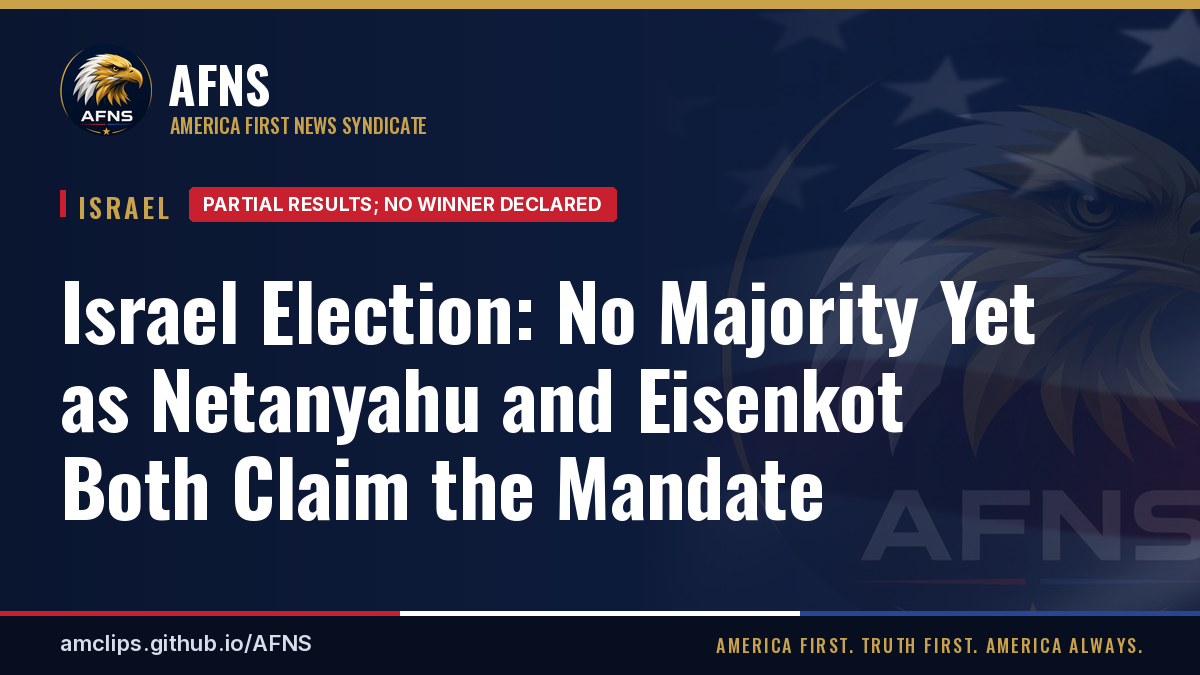
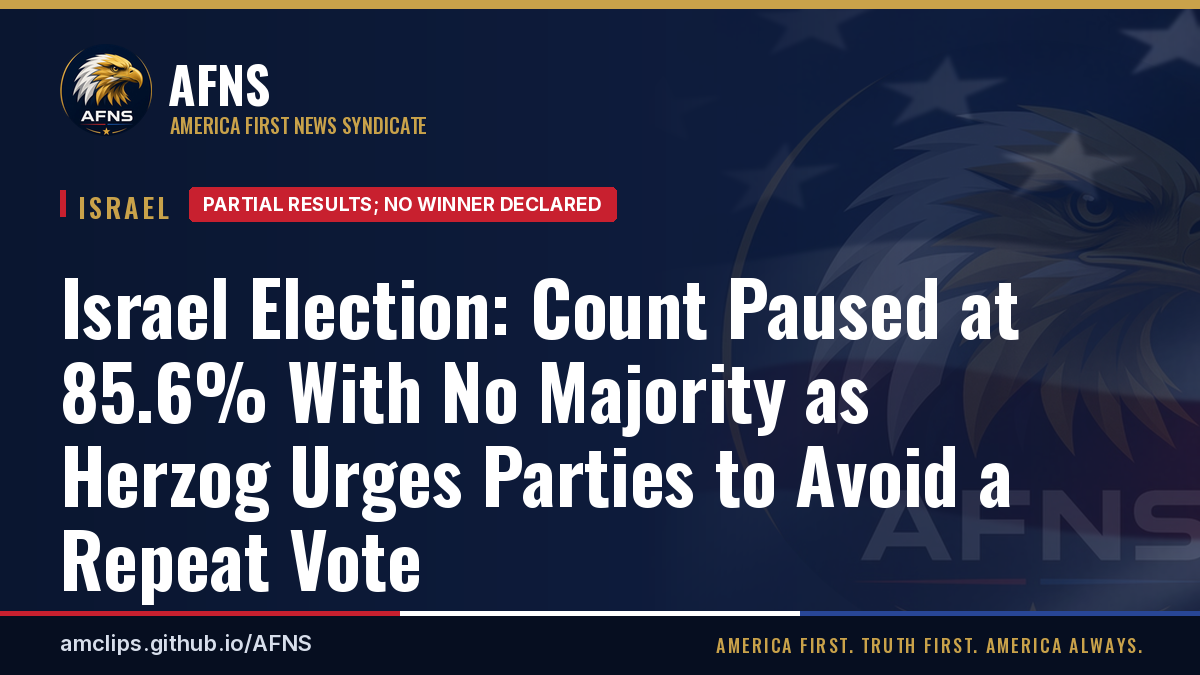
Update the Israel election story for the 9 AM count. (#8)
The count is paused at 85.6% with no majority, and the morning briefing matches that. The share card uses the new headline.

Changed region(s): [[0.0308, 0.4044, 0.8633, 0.9022]]

diff --git a/content/israel/israel-election-no-clear-winner-netanyahu-eisenkot-claim-victory.md b/content/israel/israel-election-no-clear-winner-netanyahu-eisenkot-claim-victory.md
@@ -1,8 +1,8 @@
 ---
-title: "Israel Election: No Majority Yet as Netanyahu and Eisenkot Both Claim the Mandate"
+title: "Israel Election: Count Paused at 85.6% With No Majority as Herzog Urges Parties to Avoid a Repeat Vote"
 desk: israel
 date: 2026-10-28
-summary: "With about 84% of ballot boxes counted, the Central Elections Committee's partial results give Netanyahu's bloc 54 seats, seven short of the 61 needed. Eisenkot's bloc has 49 and the Arab-led parties have 17. Soldiers' and double-envelope ballots are still to be counted, both leaders claim the mandate, and final results are expected around Nov. 4."
+summary: "With 85.6% counted, the Central Elections Committee gives Netanyahu's bloc 53 seats, eight short of the 61 needed. Eisenkot's bloc has 48, and the Arab parties have a record 19. Counting is paused for the day, with about 600,000 double-envelope ballots still to be added. President Herzog urged parties to avoid a repeat election."
 image: "img/stories/israel-election-no-clear-winner-netanyahu-eisenkot-claim-victory.jpg"
 image_alt: "Ballot slips for each party list laid out in a voting booth at an Israeli polling station, Oct. 27, 2026"
 image_credit: "Nizzan Cohen / Wikimedia Commons"
@@ -12,19 +12,17 @@ status: "Partial results; no winner declared"
 featured: true
 desk_lead: true
 key_points:
-  - Status: partial results (about 84% counted, per the Central Elections Committee via the Times of Israel). Seats can still move
-  - Netanyahu bloc 54, Eisenkot bloc 49, Arab-led parties 17; Likud about 27, Yashar 21-22
+  - Status - partial results, 85.6% counted (Central Elections Committee via the Times of Israel). Counting is paused for the day, and seats can still move
+  - Netanyahu bloc 53, Eisenkot bloc 48, Arab parties a record 19; Likud 26, Yashar 21
+  - About 600,000 double-envelope ballots and about 7% of regular ballots needing extra checks are still to come over the next couple of days
   - Netanyahu's bloc was as high as 57 overnight at about 42% counted and has slipped since
-  - Soldiers' and double-envelope ballots have not been counted yet; final results are expected around Nov. 4
-  - Turnout was 77.7%, the highest in more than 25 years
-  - Without Arab party support, the anti-Netanyahu bloc can't reach 61 on the current numbers
-  - Trump says his endorsement "helped him a lot" and that it looks like "a stalemate or a win"
+  - Herzog urged parties to avoid a repeat election; he expects official results next week, with consultations after
+  - The opposition is moving to replace Likud's Amir Ohana as Knesset speaker (Channel 12 via the Times of Israel)
+  - The shekel weakened and the Tel Aviv stock exchange slumped
 sources:
-  - Times of Israel: with 84% counted, 54-49-17 (Central Elections Committee) | https://www.timesofisrael.com/liveblog_entry/with-84-of-ballots-counted-pro-netanyahu-bloc-at-54-seats-eisenkot-led-bloc-at-49-arab-parties-at-17/
-  - Ynetnews: count update | https://www.ynetnews.com/article/hjnatbkaml
-  - Kan: count update | https://www.kan.org.il/content/kan-news/politic/1113524/
-  - Arutz 7: count update | https://www.inn.co.il/news/709485
-  - israelielections.com results tracker | https://israelielections.com/2026/results/
+  - Times of Israel: with over 85% counted, 53-48-19 (Central Elections Committee) | https://www.timesofisrael.com/liveblog_entry/with-over-85-of-votes-counted-pro-netanyahu-bloc-gets-53-seats-eisenkot-led-bloc-at-48-and-arab-parties-have-19/
+  - Times of Israel liveblog, Oct. 28: Herzog, speakership, markets | https://www.timesofisrael.com/liveblog-october-28-2026/
+  - X trending summary: Mansour Abbas interview (unconfirmed) | https://x.com/i/trending/2115430450852512197
   - AP: Arab parties and coalition talks | https://apnews.com/article/israel-elections-netanyahu-eisenkot-arab-coalition-results-d4680e90210c9a8611853fda9d0deb61
   - NPR: Israel election results | https://www.npr.org/2026/10/28/nx-s1-6019423/israel-election-results
   - Times of Israel: Netanyahu speech | https://www.timesofisrael.com/netanyahu-we-must-form-strong-national-right-wing-government-remove-existential-threat-from-iran/
@@ -44,30 +42,34 @@ sources:
   - Kan News on X: Sa'ar and Likud HQ | https://x.com/kann_news/status/2115185246060568781
 ---
 
-**Updated Oct. 28, 2026.** This article now uses the Central Elections Committee's partial results at about 84% counted. They replace the early-count figures from election night. First published Oct. 27.
+**Updated Oct. 28, 2026, 9 AM CT.** This article now uses the Central Elections Committee's partial results at 85.6% counted. They replace the earlier partial figures from Wednesday morning and the election-night early count. First published Oct. 27.
 
-**Status: Partial results; no winner declared.** Counting is not finished. Soldiers' and double-envelope ballots have not been counted yet, so **seats can still move**. No camp has a majority.
+**Status: Partial results; no winner declared.** Counting is paused for the day and is not finished, so **seats can still move**. No camp has a majority.
 
 ## Where the count stands
 
-At 12:34 p.m. Israel time (4:34 AM CT) on Oct. 28, about 84% of ballot boxes had been counted. The Central Elections Committee's partial results, as reported by the Times of Israel:
+With 85.6% of votes counted, the Central Elections Committee's partial results, as reported by the Times of Israel, are:
 
-- **Netanyahu bloc:** 54 seats, seven short of the 61 needed for a majority
-- **Eisenkot bloc:** 49 seats
-- **Arab-led parties:** 17 seats
-- **Largest parties:** Likud about 27, Yashar 21-22
+- **Netanyahu bloc:** 53 seats, eight short of the 61 needed for a majority
+- **Eisenkot bloc:** 48 seats
+- **Arab parties:** 19 seats, a record
+- **Largest parties:** Likud 26, Yashar 21
 
-Kan's latest update gives the same bloc totals and breaks them down further. The Arab parties' 17 seats are Joint List 11 and Ra'am 6. Likud has 27, Eisenkot's Yashar! 22 and Bennett's Together 12.
+That is slightly worse for Netanyahu's bloc than Wednesday morning's partial count.
 
-**Outlets differ slightly.** The israelielections.com tracker shows the opposition at 48 and the Arab parties at 18, not 49 and 17.
-
-**The trend:** overnight, at about 42% counted, Netanyahu's bloc was as high as 57 seats. It has slipped since, while Eisenkot's side has gained.
+**The trend:** overnight, at about 42% counted, Netanyahu's bloc was as high as 57 seats. It has slipped since, while Eisenkot's side and the Arab parties have gained.
 
 ## What's left to count, and when
 
-- **Still being counted:** soldiers' and other "double envelope" ballots.
-- **Final results:** expected around Nov. 4.
+- **Paused for the day:** no more updates are expected Wednesday (Times of Israel).
+- **Extra checks:** about 7% of regular ballots need additional checks.
+- **Double-envelope ballots:** about 600,000 are to be added over the next couple of days. They include ballots cast by soldiers, diplomats, hospital patients and prisoners.
+- **Official results:** President Isaac Herzog expects them next week. CNBC reported final results are expected around Nov. 4.
 - **Coalition talks:** AP says weeks of talks could lie ahead.
+
+## Herzog urges parties to avoid a repeat election
+
+In his first comments since the vote, Herzog urged the parties to avoid another election. He asked them to come to coalition talks "with an open mind." He said he expects official results next week, with his consultations on who forms the government to follow (Times of Israel).
 
 ## Turnout
 
@@ -79,7 +81,18 @@ Without Arab party support, the anti-Netanyahu bloc can't reach 61 on the curren
 
 - **Netanyahu** called it "forbidden" to form a government that relies on Arab parties (Times of Israel).
 - **Eisenkot** has said he sees no Arab party that accepts his conditions. They include recognizing Hamas as a terrorist group that must be dismantled (Times of Israel; i24NEWS analysis).
-- **Joint List chief Yousef Jabareen** said anyone who wants to replace Netanyahu "will have to talk to us" (Times of Israel).
+- **Joint List chair Yousef Jabareen** said anyone who wants to replace Netanyahu "will have to talk to us." He said his party is "ready to pave the way" to oust Netanyahu (Times of Israel).
+- **Yair Golan** is urging a coalition with the Arab parties (Times of Israel).
+
+**UNCONFIRMED (based on an X trending summary; not independently confirmed):** according to the summary, Ra'am leader Mansour Abbas would not call Hamas terrorists in a live interview. It says he accepted the first three of Eisenkot's coalition conditions but refused the fourth, labeling Hamas a terrorist group, while saying he condemns October 7. AFNS has not reviewed the interview.
+
+## The opposition moves on the Knesset speakership
+
+According to Channel 12, as reported by the Times of Israel, the Eisenkot bloc wants to use its votes plus the Arab parties' votes to replace Likud's Amir Ohana as Knesset speaker. Oded Forer and Elazar Stern are among the names discussed.
+
+## Markets react
+
+The shekel weakened and the Tel Aviv stock exchange slumped (Times of Israel).
 
 ## Both leaders claim the mandate
 

diff --git a/content/israel/israel-morning-briefing-2026-10-28.md b/content/israel/israel-morning-briefing-2026-10-28.md
@@ -2,7 +2,7 @@
 title: "Israel Morning Briefing: Wednesday, Oct. 28, 2026"
 desk: israel
 date: 2026-10-28
-summary: "A UN inquiry accuses Israel of war crimes and crimes against humanity, and Israel and the U.S. reject the findings. Also: Israeli shelling in south Lebanon, Gaza's fourth winter in tents, memorial demolitions near Nablus, Arab turnout and Ben-Gvir's latest remarks. For the election count, see the updated results article."
+summary: "Updated 9 AM CT: IDF says six Hamas operatives were killed in Gaza strikes, and a wildfire in Ben Shemen Forest closed Routes 1, 6 and 444. Also: a UN inquiry accuses Israel of war crimes, which Israel and the U.S. reject, plus Israeli shelling in south Lebanon, Gaza's fourth winter in tents, memorial demolitions near Nablus, Arab turnout and Ben-Gvir's latest remarks. For the election count, see the updated results article."
 image: "img/stories/israel-morning-briefing-2026-10-28.jpg"
 image_alt: "The Palais des Nations, the United Nations Office at Geneva"
 image_credit: "Vassil / Wikimedia Commons"
@@ -10,12 +10,16 @@ image_source_url: "https://commons.wikimedia.org/wiki/File%3APalace_of_Nations_G
 image_license: "CC0"
 status: "Daily briefing"
 key_points:
-  - Election - counting continues, see the updated results article for the latest official figures
+  - Gaza strikes - the IDF says six Hamas operatives were killed, including Ahmed Baraka, whom it links to the abduction of Alex Dancyg
+  - Wildfire - a large fire in Ben Shemen Forest closed Routes 1, 6 and 444 in central Israel
+  - Election - counting is paused for the day, see the updated results article for the latest official figures
   - UN inquiry - UN accuses Israel of war crimes and crimes against humanity; Israel and the U.S. reject the findings (X news summary; report not reviewed)
   - Lebanon - Lebanon's news agency reports Israeli shelling of Majdal Zoun and Haddatha
   - Gaza - the UN says about 950,000 displaced people live in flood-risk sites as winter begins
   - West Bank, Arab turnout, Ben-Gvir - from X news summaries, not independently verified
 sources:
+  - Times of Israel liveblog, Oct. 28: IDF strikes, wildfire | https://www.timesofisrael.com/liveblog-october-28-2026/
+  - Hen Mazzig on X: IDF strikes | https://x.com/HenMazzig/status/2115445036691153352
   - X trending summary: UN Commission of Inquiry report | https://x.com/i/trending/2114743518409167155
   - Pakistan TV: Middle East live, Oct. 28 (citing Lebanon's NNA) | https://pakistantv.com/article/middle-east-live-october-28-2026
   - UN News: Gaza winter | https://news.un.org/en/story/2026/10/1168685
@@ -27,9 +31,15 @@ sources:
 
 **Status: Daily briefing.** Each item names its source. Items marked **"Based on an X news summary; not independently verified"** come from X's trending summaries. AFNS has not confirmed them with a primary source.
 
-## Election: counting continues
+## Update, 9 AM CT
 
-No camp has a majority yet, and soldiers' and double-envelope ballots are still being counted. For the latest official figures, see [the updated election results article](../israel-election-no-clear-winner-netanyahu-eisenkot-claim-victory/). For the reported U.S. planning on Iran and the Tehran talks, see [Iran after the midterms](../us-israel-signal-iran-campaign-after-midterms-tehran-talks/).
+**Gaza strikes (IDF statements).** The IDF says six Hamas operatives were killed in recent strikes in Gaza. It says they include Ahmed Baraka, who the IDF says took part in abducting Nir Oz hostage Alex Dancyg on October 7. Dancyg later died in captivity. The IDF says the strikes targeted ceasefire violations (Times of Israel; also posted on X by Hen Mazzig). AFNS has not independently verified the IDF's account.
+
+**Wildfire.** A large wildfire is burning in Ben Shemen Forest. Routes 1, 6 and 444 are closed in central Israel, and traffic leaving Jerusalem is heavy (Times of Israel).
+
+## Election: counting paused for the day
+
+No camp has a majority yet. Counting is paused for the day, and about 600,000 double-envelope ballots are still to be added. For the latest official figures, see [the updated election results article](../israel-election-no-clear-winner-netanyahu-eisenkot-claim-victory/). For the reported U.S. planning on Iran and the Tehran talks, see [Iran after the midterms](../us-israel-signal-iran-campaign-after-midterms-tehran-talks/).
 
 ## UN inquiry accuses Israel; Israel and the U.S. reject the findings
 
